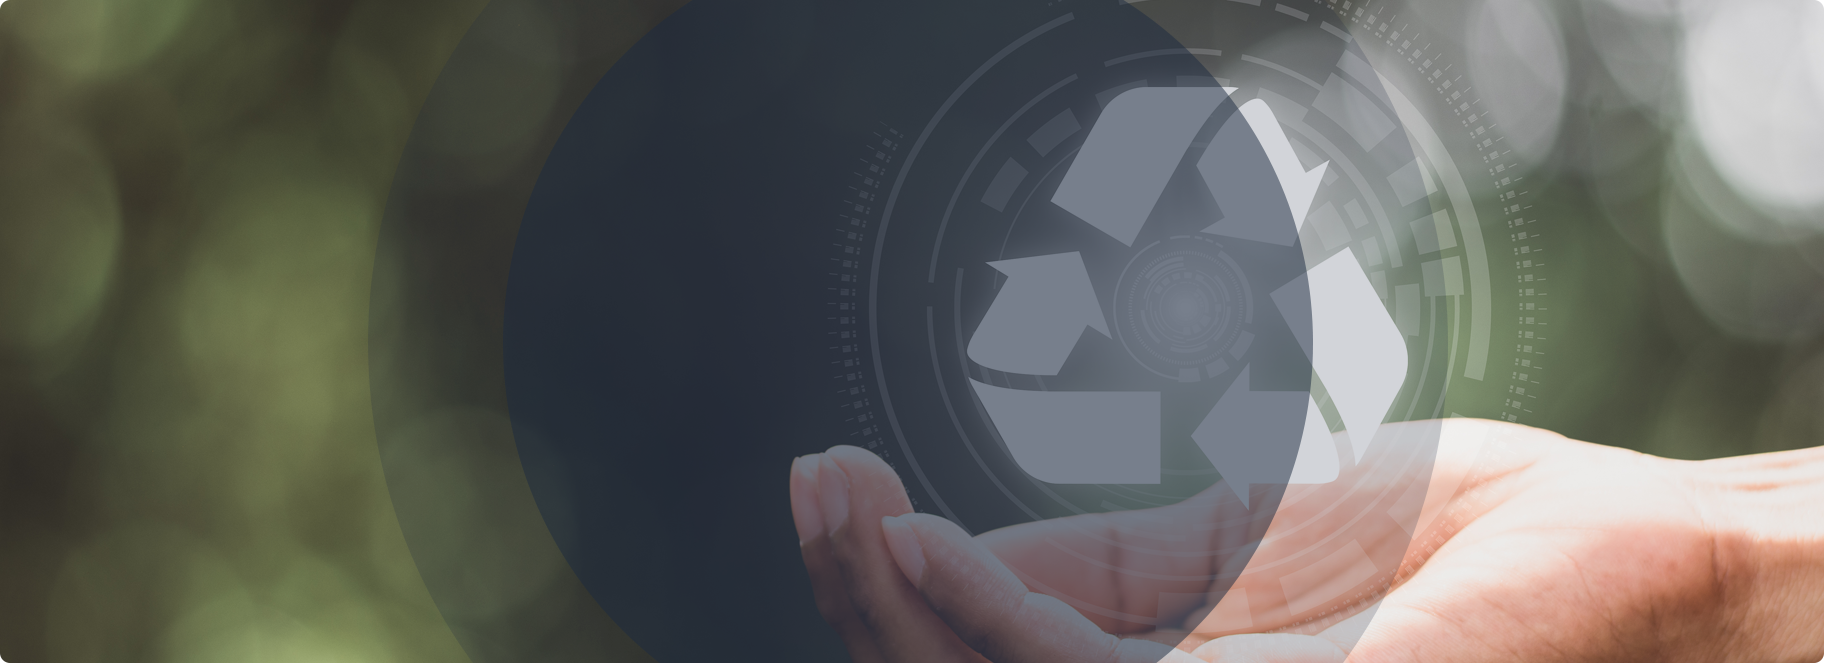
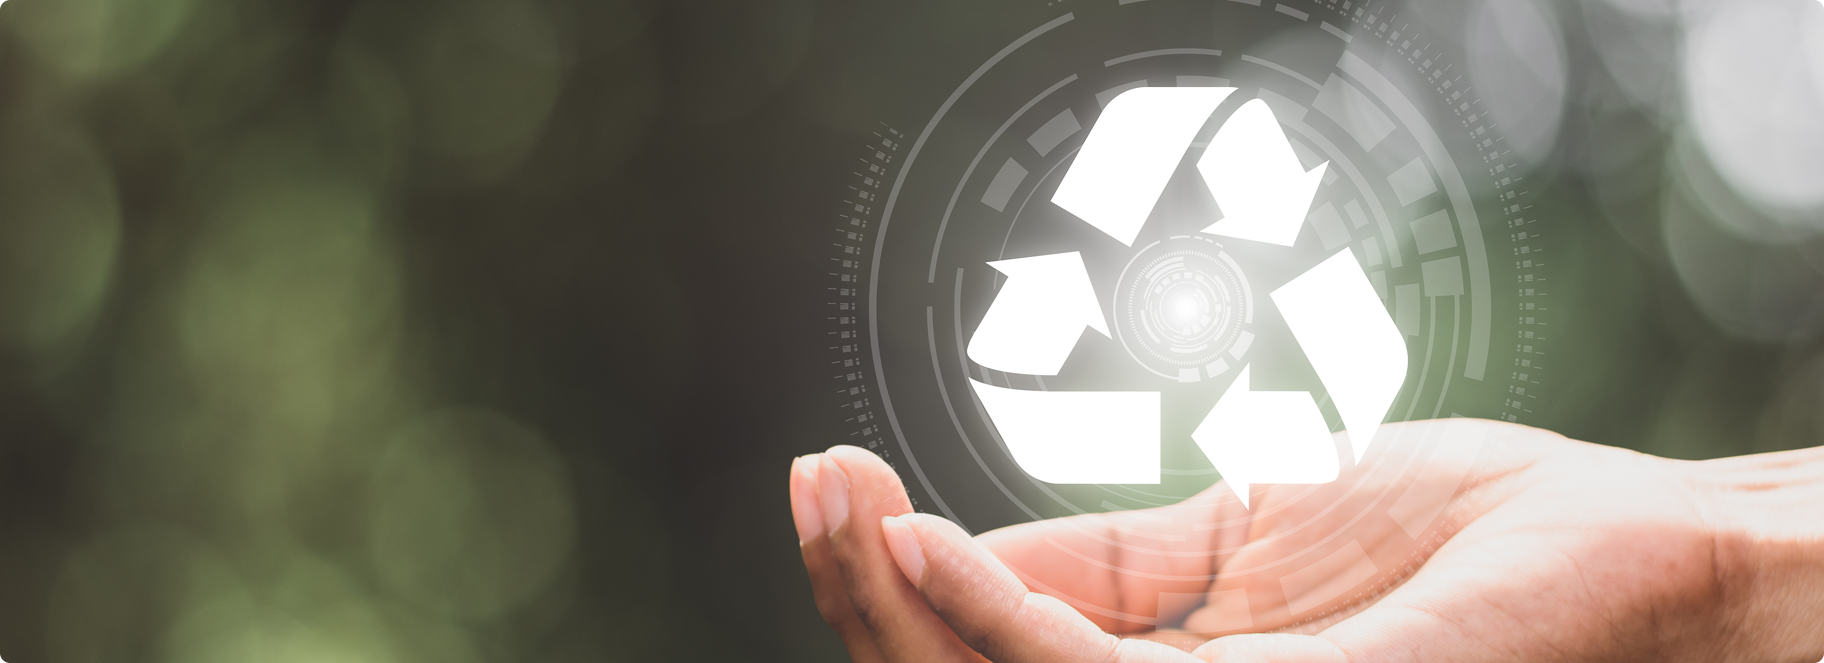
Ajustes cliente

diff --git a/page-markets.php b/page-markets.php
@@ -11,7 +11,7 @@ get_header(); ?>
             $banner_desktop = get_field("banner_desktop");
             if ($banner_desktop): ?>
             <div class="col d-none d-md-block text-center">
-                <img class="img-fluid" src="<?php echo $banner_desktop; ?>" alt="" />
+                <img class="w-100 img-fluid" src="<?php echo $banner_desktop; ?>" alt="" />
             </div>
             <?php endif;
             ?>
